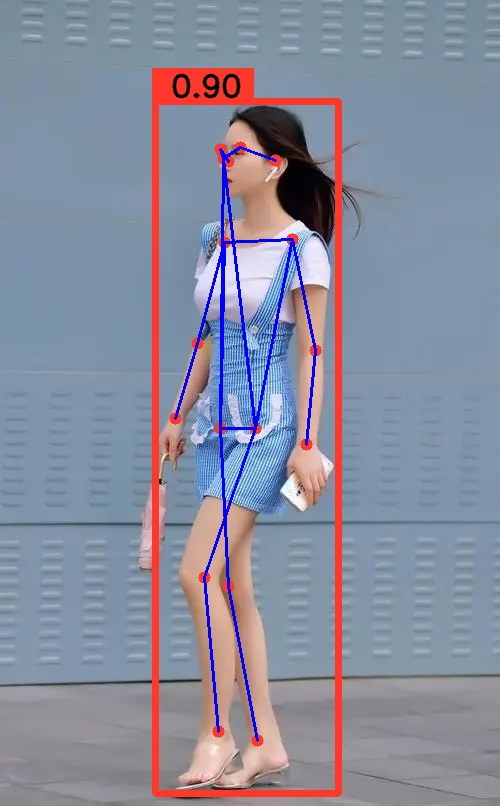
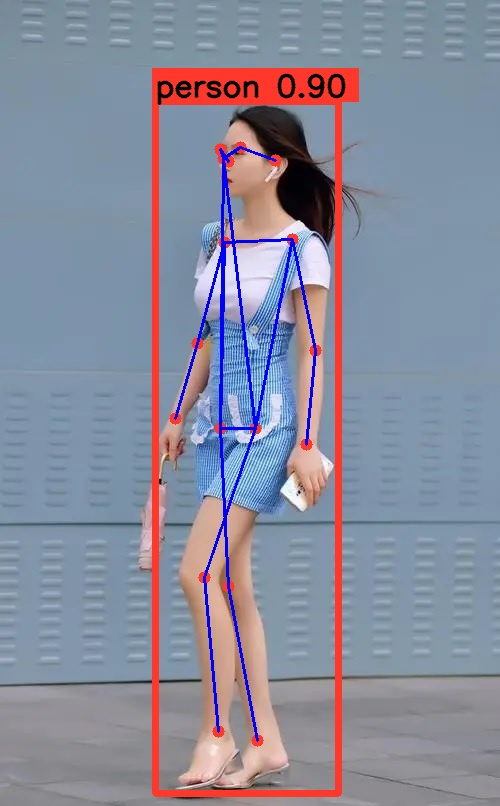
更新readme

Changed region(s): [[0.3, 0.062, 0.72, 0.1551]]

diff --git a/src/main.cpp b/src/main.cpp
@@ -81,7 +81,7 @@ void yolov11poseInfer()
                     cv::Scalar(b, g, r), 5);
 
         auto name = cocolabels[obj.class_label];
-        auto caption = cv::format("%s %.2f", name, obj.confidence);
+        auto caption = cv::format("%s %.2f", name.c_str(), obj.confidence);
         int width = cv::getTextSize(caption, 0, 1, 2, nullptr).width + 10;
         cv::rectangle(image, cv::Point(obj.left - 3, obj.top - 33),
                     cv::Point(obj.left + width, obj.top), cv::Scalar(b, g, r), -1);
